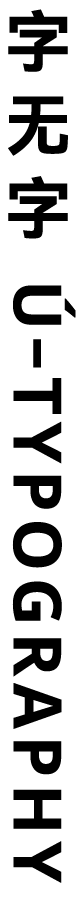
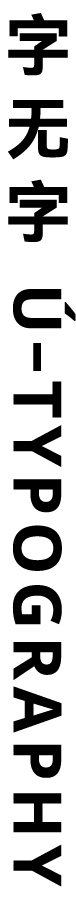
微调

diff --git a/index.html b/index.html
@@ -61,14 +61,14 @@
         <div id="bar">
             <img id="logomark" src="images/字无字_图形.png" alt="“字无字”的图标｜logomark of ú–typography">
             <picture>
-                <source srcset="images/字无字_字标-横.png" media="(max-width: 980px)">
+                <source srcset="images/字无字_字标-横.png" media="(max-width: 940px)">
                 <img id="logotype" src="images/字无字_字标-竖.png" alt="“字无字”的字标｜logotype of ú–typography">
             </picture>
-            
+
         </div>
 
         <main id="page">
-            
+
             <div id="mainContent">
                 <header id="briefIntroduction-Button">
                     <p id="briefIntroduction"><span class="singleCharacter">苟</span><span class="singleCharacter">文</span><span class="singleCharacter">一</span><span class="singleCharacter">的</span><span class="singleCharacter">个</span><span class="singleCharacter">人</span><span class="singleCharacter">网</span><span class="singleCharacter">站</span><br><span class="singleCharacter">分</span><span class="singleCharacter">享</span><span class="singleCharacter">中</span><span class="singleCharacter">文</span><span class="singleCharacter">排</span><span class="singleCharacter">版</span><br><span class="singleCharacter">以</span><span class="singleCharacter">及</span><span class="singleCharacter">更</span><span class="singleCharacter">多</span></p>
@@ -109,7 +109,7 @@
                     </div>
                     <!-- <div class="placeHolder"></div> -->
                 </section>
-                <footer>
+                <section id="additionalSection">
                     <div class="subDivision">
                         <div class="symbol">&lt;&#8197;T&#8197;&gt;</div>
                         <h3>这个网站的排版</h3>
@@ -122,9 +122,14 @@
                         <div class="symbol">¥</div>
                         <h3>打赏</h3>
                     </div>
+                </section>
+
+                <!-- <a rel="license" href="http://creativecommons.org/licenses/by-nc-nd/4.0/"><img alt="知识共享许可协议" style="border-width:0" src="https://i.creativecommons.org/l/by-nc-nd/4.0/88x31.png" /></a> -->
+                <footer>
+                    <p>本网站及其中所有内容由<span property="cc:attributionName">张擎天</span>设计制作（有特别说明的除外），采用<a class="externalLink" rel="license" href="http://creativecommons.org/licenses/by-nc-nd/4.0/">“知识共享署名<span class="BanZiXian">–</span>非商业性使用<span class="BanZiXian">–</span>禁止演绎<span class="Latin">4.0</span>国际”许可协议</a>。详见版权声明</p>
+                    <p xmlns:cc="http://creativecommons.org/ns#"><span class="Latin">This work designed and developed by <span property="cc:attributionName">Z<span style="font-variant: small-caps;">hang</span> Qingtian</span> is licensed under <a class="externalLink" href="http://creativecommons.org/licenses/by-nc-nd/4.0/?ref=chooser-v1" target="_blank" rel="license noopener noreferrer" style="display:inline-block;">CC BY-NC-ND 4.0&#8197;</a></span></p>
+                    <div id="creativecommonsIcon"><img src="https://mirrors.creativecommons.org/presskit/icons/cc.svg?ref=chooser-v1"><img src="https://mirrors.creativecommons.org/presskit/icons/by.svg?ref=chooser-v1"><img src="https://mirrors.creativecommons.org/presskit/icons/nc.svg?ref=chooser-v1"><img src="https://mirrors.creativecommons.org/presskit/icons/nd.svg?ref=chooser-v1"></div>
                 </footer>
-                <p xmlns:cc="http://creativecommons.org/ns#" >This work by <span property="cc:attributionName">张擎天</span> is licensed under <a href="http://creativecommons.org/licenses/by-nc-nd/4.0/?ref=chooser-v1" target="_blank" rel="license noopener noreferrer" style="display:inline-block;">CC BY-NC-ND 4.0<img style="height:22px!important;margin-left:3px;vertical-align:text-bottom;" src="https://mirrors.creativecommons.org/presskit/icons/cc.svg?ref=chooser-v1"><img style="height:22px!important;margin-left:3px;vertical-align:text-bottom;" src="https://mirrors.creativecommons.org/presskit/icons/by.svg?ref=chooser-v1"><img style="height:22px!important;margin-left:3px;vertical-align:text-bottom;" src="https://mirrors.creativecommons.org/presskit/icons/nc.svg?ref=chooser-v1"><img style="height:22px!important;margin-left:3px;vertical-align:text-bottom;" src="https://mirrors.creativecommons.org/presskit/icons/nd.svg?ref=chooser-v1"></a></p> 
-                <a rel="license" href="http://creativecommons.org/licenses/by-nc-nd/4.0/"><img alt="知识共享许可协议" style="border-width:0" src="https://i.creativecommons.org/l/by-nc-nd/4.0/88x31.png" /></a><br />本作品采用<a rel="license" href="http://creativecommons.org/licenses/by-nc-nd/4.0/">知识共享署名-非商业性使用-禁止演绎 4.0 国际许可协议</a>进行许可。
             </div>
         </main>
     </div>

diff --git a/styles/style-index.css b/styles/style-index.css
@@ -355,27 +355,28 @@ html {
 	top: 0;
 }
 #bar {
-	width: 6rem;
+	width: 4rem;
 	position: fixed;
 	display: block;
 	top: 0;
 	left: 0;
 	height: 100%;
 	z-index: 10;
-	border-left: black 10px solid;
+	/* border-left: black 10px solid; */
 	border-right: black 1px solid;
 	background-color: var(--colour-paper);
 }
 #logomark {
-	width: 40px;
+	width: 30px;
 	display: block;
 	margin: 50px auto 0;
 }
 #logotype {
-	width: 36px;
+	width: 27px;
 	display: block;
 	margin: 30px auto;
 }
+
 #briefIntroduction-Button {
 	width: fit-content;
 	height: fit-content;
@@ -395,7 +396,6 @@ html {
 	font-family: var(--font-song);
 	font-weight: 600;
 	/* letter-spacing: 1rem; */
-	
 }
 .singleCharacter {
 	text-align: center;
@@ -405,6 +405,7 @@ html {
 	border-radius: 1px;
 	color: var(--colour-paper);
 	background-color: black;
+	border: 1px solid black;
 	margin-right: 0.8rem;
 	margin-bottom: 1.3rem;
 	transition: all 100ms ease-in-out;
@@ -413,6 +414,7 @@ html {
 .singleCharacter:hover {
 	color: black;
 	background-color: var(--colour-paper);
+	border: 1px solid black;
 	transition: all 100ms ease-in-out;
 	cursor: default;
 	/* animation: briefIntroductionHover 500ms ease-in-out; */
@@ -455,9 +457,8 @@ section {
 	margin: 8rem 0;
 	position: relative;
 }
-footer {
+#additionalSection {
 	margin: 12rem 0;
-	position: relative;
 }
 .placeHolder {
 	display: block;
@@ -482,6 +483,15 @@ footer {
 }
 a {
 	color: black;
+}
+.externalLink::after {
+	content: "⤴";
+	font-family: var(--font-hei);
+	font-weight: 400;
+	font-size: 0.75em;
+	line-height: 0.01em;
+	vertical-align: 0.5em;
+	color: blue;
 }
 li a {
 	display: inline;
@@ -577,6 +587,30 @@ li::marker {
 	/* visibility: hidden !important; */
 }
 
+footer {
+	font-size: 0.75rem;
+	line-height: 1.5rem;
+	/* border-top: 1px solid black; */
+	padding: 1rem 0rem;
+}
+#creativecommonsIcon {
+	margin-top: 3px;
+}
+footer img {
+	height: 22px !important;
+	margin-right: 5px;
+	vertical-align: text-bottom;
+	mix-blend-mode: multiply;
+}
+/* 其他标题标点符号用思源黑体 */
+h-char.bd-jiya.bd-open > h-inner,
+h-char.bd-jiya.bd-close > h-inner,
+h-char.bd-jiya.bd-cop > h-inner,
+h-char.bd-jiya[unicode="ff0e"] > h-inner {
+	font-family: var(--font-hei-biaodian);
+	font-weight: 400;
+	line-height: 0.1em;
+}
 /* 标题标点符号用思源宋体 */
 ul h-char.bd-jiya.bd-open > h-inner,
 ul h-char.bd-jiya.bd-close > h-inner,
@@ -690,6 +724,13 @@ h-char.bd-end.bd-jiya + .PoZheHao::before {
 	/* text-justify: inter-word; */
 	/* 西文齐行往词间插入间距 */
 }
+.Latin {
+	font-family: var(--font-sans);
+	font-weight: 400;
+	hyphens: auto;
+	font-size: 1.1em;
+	line-height: 1em;
+}
 /* 中西文之间插入四分空 */
 h-hws:before,
 h-hws[hidden]:before {
@@ -743,30 +784,36 @@ h-hws[hidden] {
 /* 留20px的滚动条的空间 */
 
 /* 【1】############################# */
-@media screen and (min-width: 1220px) {
+@media screen and (min-width: 1180px) {
 	#whole {
-		width: 1200px;
+		width: 1160px;
 	}
 
 	#page {
 		width: 48rem;
-		margin-left: 6rem;
+		margin-left: 4rem;
 	}
 
 	#mainContent {
 		width: 42rem;
 		left: 6rem;
 	}
+	footer {
+		width: 30rem;
+		margin-left: 12rem;
+		border-top: 0px;
+	}
 }
 
 /* 【2】############################# */
-@media screen and (min-width: 980px) and (max-width: 1220px) {
+@media screen and (min-width: 940px) and (max-width: 1180px) {
 	#whole {
-		width: 960px;
+		width: 920px;
 	}
+
 	#page {
 		width: 36rem;
-		margin-left: 6rem;
+		margin-left: 4rem;
 	}
 	#mainContent {
 		width: 30rem;
@@ -804,25 +851,25 @@ h-hws[hidden] {
 	}
 }
 /* 【3】############################# */
-@media screen and (min-width: 740px) and (max-width: 980px) {
+@media screen and (min-width: 740px) and (max-width: 940px) {
 	#whole {
 		width: 720px;
 	}
 	#logomark {
-		height: 50px;
+		height: 40px;
 		width: auto;
 		margin: 0;
 		display: inline-block;
 		position: absolute;
-		left: 30px;
-		top: 28px;
+		left: 20px;
+		top: 18px;
 	}
 	#logotype {
 		height: 30px;
 		width: auto;
 		margin: 0 auto;
 		position: relative;
-		top: 38px;
+		top: 24px;
 	}
 	#page {
 		width: 30rem;
@@ -831,13 +878,13 @@ h-hws[hidden] {
 	}
 	#bar {
 		position: fixed;
-		height: 6rem;
+		height: 4rem;
 		top: 0rem;
 		width: 100%;
 		left: 0rem;
-		border-left: 0px solid;
+		/* border-left: 0px solid; */
 		border-right: 0px solid;
-		border-top: black 10px solid;
+		/* border-top: black 10px solid; */
 		border-bottom: black 1px solid;
 	}
 	#changeTypeMenu-Button {
